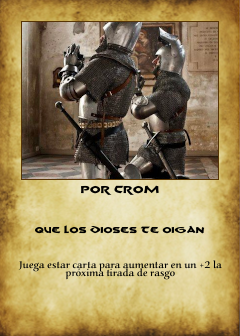
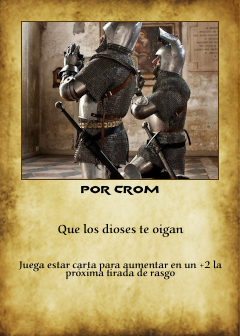
Better use same font in the title and body sections
Only header will use a different font

Changed region(s): [[0.1458, 0.6548, 0.8458, 0.7143]]

diff --git a/main.go b/main.go
@@ -68,12 +68,12 @@ func main() {
 	textsPath := promptPath("texts directory", path.Join(basePath, defaultTextsPath))
 	outputsPath := promptPath("output directory", path.Join(basePath, defaultOutputsPath))
 
-	hf := promptTrueTypeFonts("Header and Title")
-	bf := promptTrueTypeFonts("Body")
+	hf := promptTrueTypeFonts("Header")
+	bf := promptTrueTypeFonts("Title and Body")
 
 	cardCfg := cardConfig{
 		HeaderFont:  hf,
-		TitleFont:   hf,
+		TitleFont:   bf,
 		BodyFont:    bf,
 		Template:    path.Join(templatesPath, template),
 		OutputsPath: outputsPath,

diff --git a/README.md b/README.md
@@ -48,6 +48,6 @@ body=Juega estar carta para aumentar en un +2 la próxima tirada de rasgo
     - the location of the images directory
     - the location of the templates directory. You will be prompted to choose one template
     - the location of the texts directory
-    - the font to use for Header and Title of the card (both will share font)
-    - the font to use for the Body of the card (both will share font)
+    - the font to use for the Header of the card
+    - the font to use for the Title and the Body of the card (both will share font)
 4. The generation will proceed and the outputs dir will be populated with your card!
